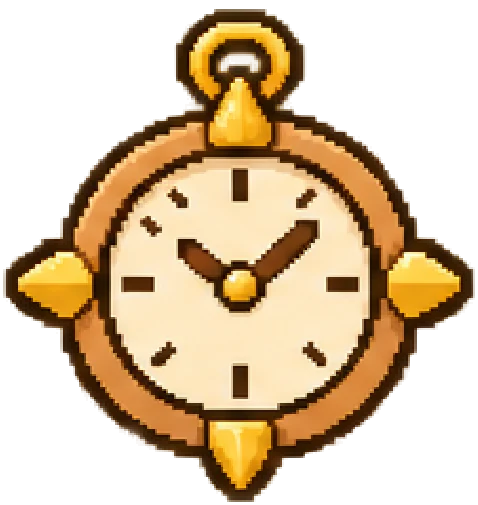
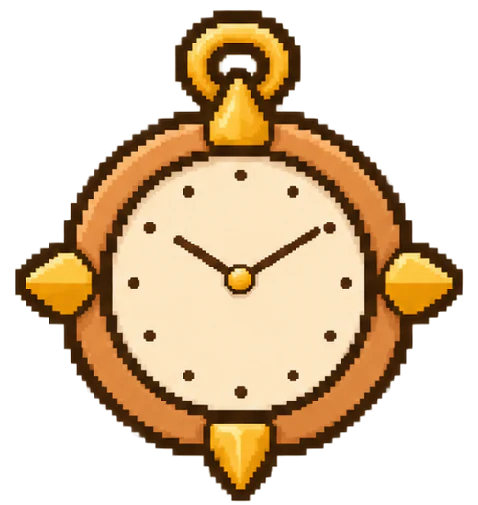
알은 광장 · 아지트만 도트 알 · 아지트 벽시계 4종을 숫자 없는 시계로 · 교실 벽의 빈 시계판에 시계판 얹기
- 알: 카드 · 자세히 보기 · 리더보드 · 독서 맵 · 축하 폭죽은 예전 알(egg.webp로 되돌림),
  책 광장(따라 걷는 알) · 아지트(방석 위의 알)는 도트 알(egg-pixel.webp · -160). 선생님 결정.
  PetFigure의 pixelEgg → petImageSrc(…, { pixelEgg }) 한 곳에서 고르고, 시험이 두 알이 다른 그림인지 봄.
  prepare-pet-art.mjs가 egg-pixel 열쇠도 받음.
- 아지트: 꾸미기 벽시계 4종을 숫자 없는 수정본(작은 점 12개 · 10시 10분 바늘)으로.
  import-pixel-art.mjs가 덧씌울 묶음을 몇 개든 받게 고침(넓은 러그 · 숫자 없는 벽시계) — 다시 돌려도 다른 그림은 그대로.
- 교실: 도트 배경의 칠판 위 벽시계가 빈 동그라미라, 숫자 없는 벽시계의 시계판(점 · 바늘 · 금빛 축만)을
  떠내 그 위에 얹음(classroom-clock.webp · CLASSROOM_CLOCK · PlazaFurniture · prepare-classroom-clock.mjs).
  배경은 고치지 않아 도트 묶음을 다시 넣어도 지워지지 않음. plazaArtFit 시험이 자리 · 지름 · 점 12개를 봄.
- 문서: READING_GROWTH.md · HIDEOUT.md · CLAUDE.md · 그림 README 둘.

Claude-Session: https://claude.ai/code/session_01C8MEnwKbSQD7jTHwr2vygZ

Changed region(s): [[0.0, 0.0, 0.9958, 1.0], [0.2929, 0.6535, 0.3222, 0.6832]]

diff --git a/lib/readingPet.js b/lib/readingPet.js
@@ -50,9 +50,11 @@ export const PET_HATCH_STAGE = 2;
 export const PET_HATCH_XP = getExpForReadingLevel(PET_HATCH_STAGE);
 
 // 그림 파일이 준비된 종 — public/reading-pets/{종}-{02~10}.webp(+ 작은 그림 -160.webp). 없는 종은
-// 자리표시를 그립니다(없는 파일을 학생마다 요청하지 않게). 알 단계의 '비밀 알'은 egg.webp 한 장을
-// 모두가 같이 씁니다(1단계는 종마다 그리지 않음). 그림은 scripts/prepare-pet-art.mjs로 다듬어 넣고,
-// 넣은 뒤 여기에 종(또는 "egg")을 더합니다 — 시험이 적힌 종의 파일이 다 있는지 봅니다.
+// 자리표시를 그립니다(없는 파일을 학생마다 요청하지 않게). 알 단계의 '비밀 알'은 종마다 그리지 않고
+// 모두가 같이 씁니다(1단계는 종마다 그리지 않음) — 카드 · 리더보드 · 독서 맵 · 축하 폭죽은 egg.webp(예전 알),
+// 책 광장 · 아지트는 도트 알 egg-pixel.webp(petImageSrc의 pixelEgg — 선생님 결정, 2026년 11월 도트 그림).
+// 그림은 scripts/prepare-pet-art.mjs로 다듬어 넣고, 넣은 뒤 여기에 종(또는 "egg")을 더합니다 — 시험이 적힌 종의
+// 파일이 다 있는지 봅니다("egg"는 두 알 모두).
 export const PET_ART_READY = Object.freeze(new Set(["egg", "owl", "hedgehog", "chick", "otter", "fennec", "redpanda", "rabbit", "bear", "cat", "puppy"]));
 
 const finite = (v) => (typeof v === "number" && Number.isFinite(v) ? v : null);
@@ -218,7 +220,6 @@ export function pickPetSpecies(index) {
   return PET_SPECIES[i].key;
 }
 
-/** 그림 주소 — 그림 파일이 아직 없으면 null(자리표시를 그림). 알 단계는 종과 상관없이 '비밀 알'. */
 /**
  * 큰 그림(640px)과 작은 그림(160px — 이름에 -160)을 함께 적은 srcset. 브라우저가 자리 크기(sizes)로
  * 고릅니다 — 순위표 · 독서 맵처럼 작게 여러 장 뜨는 자리는 작은 그림만 받습니다(한 장 4~10KB).
@@ -228,9 +229,13 @@ export function petImageSrcSet(src) {
   return `${src.slice(0, -".webp".length)}-160.webp 160w, ${src} 640w`;
 }
 
-export function petImageSrc(species, stage, ready = PET_ART_READY) {
+/**
+ * 그림 주소 — 그림 파일이 아직 없으면 null(자리표시를 그림). 알 단계는 종과 상관없이 '비밀 알'.
+ * pixelEgg — 책 광장 · 아지트처럼 배경 · 걷는 그림이 도트인 자리는 도트 알(egg-pixel.webp). 깨어난 펫은 상관없음.
+ */
+export function petImageSrc(species, stage, ready = PET_ART_READY, { pixelEgg = false } = {}) {
   const n = Math.floor(Number(stage) || 1);
-  if (!species || n <= 1) return ready.has("egg") ? "/reading-pets/egg.webp" : null;
+  if (!species || n <= 1) return ready.has("egg") ? `/reading-pets/${pixelEgg ? "egg-pixel" : "egg"}.webp` : null;
   if (!petSpecies(species) || !ready.has(species)) return null;
   return `/reading-pets/${species}-${String(Math.min(PET_STAGE_MAX, n)).padStart(2, "0")}.webp`;
 }

diff --git a/components/reading/PlazaClassroom.jsx b/components/reading/PlazaClassroom.jsx
@@ -6,6 +6,7 @@
 // 글자 · 단추의 크기는 화면 px 그대로입니다(맵을 줄여도 읽을 수 있게).
 //   · PlazaFurniture — **러그 서른 장과 책상·의자 서른 벌**. 교실 배경에는 책상이 없고(선생님이 주신 분리 그림),
 //     자리 좌표(lib/readingPlazaMap.js의 CLASSROOM_SEATS)대로 여기서 그립니다. 러그가 아래, 책상·의자가 위.
+//     칠판 위 벽시계의 시계판(점 12개 · 10시 10분 바늘 — 도트 배경에는 빈 동그라미)도 여기서 얹습니다(CLASSROOM_CLOCK).
 //   · 학생 — **내 러그**에 살구빛 테(그 러그가 내 자리의 범위 — 선생님 요청)와 책상 위의 '내 자리' 이름표.
 //     러그에 올라서면 테가 밝아지고 책상 위(이름표 자리)에 물음표가 뜹니다. A(또는 물음표를 누름) → [앉기(S) · 취소(C)].
 //     앉아 있으면 A(또는 내 자리를 누름) → [다시 서기(S) · 취소(C)] — 앉은 동안에는 물음표를 띄우지 않습니다(앉은 캐릭터의 머리를 가림).
@@ -16,7 +17,7 @@
 // 어디에 서 있는지 · 무엇을 고르는 중인지는 무대가 정해 넘깁니다(셈은 lib/readingClassroom.js).
 // =============================================================
 import { memo } from "react";
-import { CLASSROOM_BOARD, CLASSROOM_DESK, CLASSROOM_RUG, CLASSROOM_SEATS, PLAZA_H, PLAZA_W } from "@/lib/readingPlazaMap";
+import { CLASSROOM_BOARD, CLASSROOM_CLOCK, CLASSROOM_DESK, CLASSROOM_RUG, CLASSROOM_SEATS, PLAZA_H, PLAZA_W } from "@/lib/readingPlazaMap";
 
 const pct = (value, whole) => `${(value / whole * 100).toFixed(3)}%`;
 const at = (point) => ({ left: pct(point.x, PLAZA_W), top: pct(point.y, PLAZA_H) });
@@ -24,6 +25,9 @@ const at = (point) => ({ left: pct(point.x, PLAZA_W), top: pct(point.y, PLAZA_H)
 export const PlazaFurniture = memo(function PlazaFurniture() {
   return (
     <>
+      {/* 벽시계의 시계판 — 배경의 빈 시계판 위에(그림은 점 · 바늘 · 축만, 크림 바탕은 배경의 것이 비침) */}
+      <img className="plaza-clock" src={CLASSROOM_CLOCK.src} alt="" draggable={false}
+        style={{ left: pct(CLASSROOM_CLOCK.x - CLASSROOM_CLOCK.d / 2, PLAZA_W), top: pct(CLASSROOM_CLOCK.y - CLASSROOM_CLOCK.d / 2, PLAZA_H), width: pct(CLASSROOM_CLOCK.d, PLAZA_W), height: pct(CLASSROOM_CLOCK.d, PLAZA_H) }} />
       {CLASSROOM_SEATS.map((seat) => (
         <img key={`rug-${seat.index}`} className="plaza-rug" src={CLASSROOM_RUG.src} alt="" draggable={false}
           style={{ left: pct(seat.rug.x - CLASSROOM_RUG.w / 2, PLAZA_W), top: pct(seat.rug.y - CLASSROOM_RUG.h / 2, PLAZA_H), width: pct(CLASSROOM_RUG.w, PLAZA_W), height: pct(CLASSROOM_RUG.h, PLAZA_H) }} />

diff --git a/components/reading/PlazaActor.jsx b/components/reading/PlazaActor.jsx
@@ -9,7 +9,7 @@
 //
 // character — { style, number }(lib/readingCharacterCatalog.js의 characterOf)
 // pet       — null(없음) · { species, stage, hatched, ready }. 깨어난 펫은 걷는 그림(단계가 오를수록 크게),
-//             알은 종을 드러내지 않는 공통 알(PetFigure) — 알과 걷는 그림이 없는 펫은 걷는 동안 통통 뜁니다(CSS).
+//             알은 종을 드러내지 않는 공통 알 — 광장에서는 도트 알(PetFigure의 pixelEgg) · 알과 걷는 그림이 없는 펫은 걷는 동안 통통 뜁니다(CSS).
 // 걷는 그림(시트)을 못 받으면 캐릭터는 예전 그림, 펫은 단계 그림으로 섭니다.
 //
 // seat — 교실에서 자리에 앉아 있으면 그 자리(lib/readingPlazaMap.js의 CLASSROOM_SEATS 한 칸), 서 있으면 null.
@@ -82,7 +82,7 @@ const PlazaActor = forwardRef(function PlazaActor({ character, pet = null, name,
           <span className="plaza-avatar-shadow" style={{ width: petBody.body * 0.62, height: petBody.body * 0.2 }} />
           {petSheet
             ? <PlazaSprite ref={petSprite} src={petSheet} size={petBody.cell} style={{ left: -petBody.footX, top: -petBody.footY }} onMissing={() => setPetSpriteMissing(true)} />
-            : <span className="plaza-pet-figure" style={{ left: -petFigure / 2, top: -petFigure * 0.93 }}><PetFigure species={pet.species} stage={pet.stage} ready={pet.ready} size={petFigure} /></span>}
+            : <span className="plaza-pet-figure" style={{ left: -petFigure / 2, top: -petFigure * 0.93 }}><PetFigure species={pet.species} stage={pet.stage} ready={pet.ready} size={petFigure} pixelEgg /></span>}
         </div>
       )}
       <div ref={avatarRef} className={`plaza-avatar${me ? " is-me" : ""}${teacher ? " is-teacher" : ""}${reading ? " is-reading" : ""}${seat ? " is-seated" : ""}${checked ? " is-checked" : ""}`} aria-hidden="true"

diff --git a/components/reading/PetFigure.jsx b/components/reading/PetFigure.jsx
@@ -3,7 +3,8 @@
 // =============================================================
 // 독서 펫 그림 한 장(lib/readingPet.js)
 // -------------------------------------------------------------
-// 그림 파일(public/reading-pets/{종}-{단계}.webp · egg.webp)이 준비된 종은 그 그림을,
+// 그림 파일(public/reading-pets/{종}-{단계}.webp · egg.webp — 책 광장 · 아지트는 pixelEgg로 도트 알 egg-pixel.webp)이
+// 준비된 종은 그 그림을,
 // 아직 없으면 자리표시를 그립니다 — 알은 그린 알 한 개(종을 드러내지 않음), 깨어난 펫은
 // 옅은 동그라미 안의 동물 그림 문자(단계가 오를수록 커짐). 그림이 오면 PET_ART_READY에
 // 종을 더하는 것만으로 바뀝니다(없는 파일을 학생마다 요청하지 않게).
@@ -45,10 +46,11 @@ export function PetEgg({ ready = false, size = 64 }) {
 
 /**
  * species — 종 열쇠(알이면 null) · stage — 1~10 · ready — 곧 깨어날 알 · size — 한 변(px)
+ * pixelEgg — 알을 도트 알로(책 광장 · 아지트만 — 카드 · 리더보드 · 독서 맵은 예전 알, 선생님 결정)
  */
-export default function PetFigure({ species = null, stage = 1, ready = false, size = 64, className = "" }) {
+export default function PetFigure({ species = null, stage = 1, ready = false, size = 64, className = "", pixelEgg = false }) {
   const egg = !species || stage <= 1;
-  const src = petImageSrc(egg ? null : species, egg ? 1 : stage);
+  const src = petImageSrc(egg ? null : species, egg ? 1 : stage, undefined, { pixelEgg });
   const box = { width: size, height: size };
   if (src) {
     return (

diff --git a/components/reading/plaza.css b/components/reading/plaza.css
@@ -260,9 +260,10 @@
 @keyframes plaza-warp { from { opacity: .96; } to { opacity: 0; } }
 
 /* 러그와 책상·의자 — 교실 배경에는 없고 자리 좌표대로 따로 놓습니다(PlazaFurniture). 러그가 아래, 책상·의자가 위,
-   캐릭터는 그 위(z 10+). 앉은 캐릭터 위에는 '의자만'의 그림을 한 번 더 그립니다(.plaza-chair). 누름은 통과합니다. */
-.plaza-rug, .plaza-desk-art { position: absolute; display: block; max-width: none; pointer-events: none; user-select: none; }
-.plaza-rug { z-index: 1; }
+   캐릭터는 그 위(z 10+). 앉은 캐릭터 위에는 '의자만'의 그림을 한 번 더 그립니다(.plaza-chair). 누름은 통과합니다.
+   벽시계의 시계판(.plaza-clock)도 배경의 빈 시계판 위에 따로 얹습니다 — 칠판 위 벽이라 캐릭터와 겹치지 않습니다. */
+.plaza-rug, .plaza-desk-art, .plaza-clock { position: absolute; display: block; max-width: none; pointer-events: none; user-select: none; }
+.plaza-rug, .plaza-clock { z-index: 1; }
 .plaza-desk-art { z-index: 4; }
 /* 내 러그 — 러그(보이는 타원)를 두른 살구빛 테. 러그가 곧 내 자리의 범위라(선생님 요청) 어디에 올라서면 되는지 보입니다.
    책상보다 아래 층이라 책상 · 의자에 가린 가운데는 안 보이고 양옆의 귀가 드러납니다. 올라서면 밝아지고, 앉으면 옅어집니다. */

diff --git a/lib/readingPlazaMap.js b/lib/readingPlazaMap.js
@@ -183,6 +183,11 @@ export const CLASSROOM_SIT_HIDE = 30;
 // 칠판 — 선생님이 그 앞(칠판 아래 벽과 첫 줄 책상 사이 · 복도의 맨 위)에 서면 출석을 시작하고 끝냅니다.
 // markY는 칠판의 물음표가 뜨는 높이 — 그 앞에 선 선생님의 이름표(머리 위)보다 위라 서로 가리지 않습니다.
 export const CLASSROOM_BOARD = Object.freeze({ rect: Object.freeze([490, 84, 1182, 254]), x0: 440, x1: 1232, y: 330, standY: 292, markY: 160 });
+// 벽시계 — 칠판 위 벽시계는 도트 배경에 빈 크림색 동그라미로 그려져 있어, 그 시계판(가운데 x · y, 지름 d — 원본 px)에
+// 선생님이 주신 숫자 없는 벽시계의 시계판(점 12개 · 10시 10분의 두 바늘 · 금빛 축)을 얹습니다(PlazaClassroom.jsx의 PlazaFurniture).
+// 그림은 scripts/prepare-classroom-clock.mjs가 아지트 시계 그림에서 떠냅니다 — 바늘은 움직이지 않습니다(진짜 시각이 아님).
+// 배경을 바꾸면 이 숫자를 다시 재세요(시험 tests/unit/plazaArtFit.test.mjs가 그림과 견줌).
+export const CLASSROOM_CLOCK = Object.freeze({ src: "/reading-plaza/classroom-clock.webp", x: 835, y: 44, d: 59 });
 
 export const CLASSROOM_ROOM = defineRoom({
   id: "classroom", name: "교실", art: "/reading-plaza/classroom.webp",

diff --git a/components/reading/ReadingHideout.jsx b/components/reading/ReadingHideout.jsx
@@ -358,7 +358,7 @@ function RestingPet({ pet, bed }) {
   if (!placement) return null;
   return <div className={`hideout-pet${egg ? " hideout-pet--egg" : " hideout-pet--resting"}`} data-pet-pose={egg ? "egg" : "rest"} data-resting-pet={egg ? undefined : rest?.species}
     style={{ ...place(placement.x, placement.y, placement.width), aspectRatio: "1", zIndex: 102 + bed.y }} role="img" aria-label={egg ? "창가 방석에서 쉬는 신비한 알" : "창가 방석에 앉아 쉬는 펫"}>
-    {egg ? <PetFigure species={null} stage={1} ready={false} size={placement.width} /> : rest && missing !== rest.src ? <img src={rest.src} alt="" width={rest.cell || 96} height={rest.cell || 96} draggable={false} onError={() => setMissing(rest.src)} />
+    {egg ? <PetFigure species={null} stage={1} ready={false} size={placement.width} pixelEgg /> : rest && missing !== rest.src ? <img src={rest.src} alt="" width={rest.cell || 96} height={rest.cell || 96} draggable={false} onError={() => setMissing(rest.src)} />
       : <PetFigure species={pet.species} stage={pet.stage} ready={false} size={placement.width} />}
   </div>;
 }

diff --git a/lib/readingPlazaSprites.js b/lib/readingPlazaSprites.js
@@ -28,7 +28,7 @@ export const PLAZA_FACINGS = Object.freeze(["down", "right", "up", "left"]);
 // 펫은 단계에 따라 크기가 다릅니다(선생님 결정 — 묶음의 펫 그림은 다 자란 모습 한 가지라, 크기로 성장을 보임).
 export const PLAZA_PET_BODY = 46;
 export const PLAZA_PET_SCALE_MIN = 0.62;
-// 깨어나기 전의 알 — 종을 드러내지 않는 공통 알(components/reading/PetFigure.jsx)을 그대로 씁니다.
+// 깨어나기 전의 알 — 종을 드러내지 않는 공통 알을 도트 알로 그립니다(components/reading/PetFigure.jsx의 pixelEgg · egg-pixel.webp).
 export const PLAZA_EGG_SIZE = 36;
 
 // ── 걸음과 그림 ──────────────────────────────────────────────

diff --git a/CLAUDE.md b/CLAUDE.md
@@ -14,7 +14,7 @@
 
 **책 광장**(책나눔의 셋째 탭 — 광장을 켠 반에서 '우리 반 랭킹' 자리에 섬 · 선생님 요청 · 한때 이름이 '독서 광장' — 옛 이름을 화면 · 문서에 다시 쓰지 마세요)은 `READING_GROWTH.md`의 '책 광장' 절이 기준입니다. 광장 그림 위를 내 캐릭터가(펫을 데리고) 걸어 가판대(지금 읽는 책 — 독서 발자국)와 책꽂이(완독한 책 — 한 권의 책)에서 반 친구의 글을 읽고 댓글을 남깁니다. 셈은 `lib/readingPlaza.js`, 화면은 `components/reading/ReadingPlaza.jsx` · `PlazaPanel.jsx` · `PlazaSprite.jsx`. **반 친구에게 보이는 것은 서버가 맞춰 두는 공유 사본뿐입니다**(`classes/{c}/plazaShelves` · `plazaBooks` · `plazaComments` — 서버만 쓰고 규칙은 읽기만 엶 · 서재 정본을 반 친구가 읽게 열지 마세요). **선생님이 책 광장을 켠 반에서는 그 반에서 쓴 독서 발자국 · 한 권의 책이 모두 반 친구에게 보이고(켜기 전에 쓴 글도), 끈 반에서는 본인과 선생님만 봅니다 — 학생이 고르는 칸은 없습니다**(선생님 결정 — "학생이 선택할 수 있는 옵션을 제거하고 모두 공개"). 한때 발자국은 '광장을 켠 뒤에 쓴 것만'(도장 `log.plaza`) · 책마다 '발자국 보이기'(`plazaHidden`) · 한 권의 책은 학생이 '광장 책꽂이에 꽂기'(`shelved`)를 누른 것만 보였습니다 — 그 스위치 · 체크 칸 · 도장을 **되살리지 마세요**(서재에 남은 옛 표시는 아무도 읽지 않음). 완독한 책은 '한 권의 책'을 쓰기 전에도 광장 책꽂이에 서고, 보관함으로 옮긴 책 · 선생님이 광장에서 내린 책 · 다른 반에서 쓴 글은 안 보입니다. 켜기 전에 쓴 글은 서버가 **반 전체를 한 번 통째로 맞춰** 내겁니다(`plazaSyncClass` — 책방 화면이 반 문서의 `plazaSynced`를 보고 부탁 · 판정 `lib/reading.js`의 `plazaNeedsSync` · 기준 번호 `PLAZA_SHARE_RULE`, 무엇이 보이나를 바꾸면 올림). 그 표시가 있는 반은 광장을 꺼 둔 동안에도 사본을 맞춰 둡니다 — **끈 동안 학생이 못 읽게 막는 것은 규칙(`plazaOpenHere`)이니 그 판정을 풀지 마세요.** 쓰는 자리(책 상세 창 · 발자국 창 · 한 권의 책 창)의 안내 한 줄과 관리자 설정의 스위치 설명 · 켤 때의 알림이 '반 친구들이 함께 읽는다 · 켜기 전에 쓴 글도'를 말합니다 — 고르는 칸이 없으니 그 안내를 빼지 마세요. 관리자 설정의 '책 광장'은 **켤 때만 한 번 되묻습니다**(지금까지 쓴 글이 한꺼번에 보이게 되므로 · 끌 때는 곧바로 — `AdminSettingsPanel`의 `ask`). **함께 있는 친구들**(선생님 요청 — 광장 탭을 연 반 친구와 선생님의 캐릭터 · 펫이 서로의 화면에서 함께 걷고, 이름표 · '읽는 중' · '지금 n명'이 섬)은 `READING_GROWTH.md`의 '함께 있는 친구들' 절이 기준입니다. 자료는 Firestore가 아니라 **Realtime Database**입니다(`plaza/{반}/who` — 입장권 + 이름표 · **서버만 씀**, `plaza/{반}/pos` — 내 자리 · 본인만 씀, 규칙 `database.rules.json`). 주소(`NEXT_PUBLIC_FIREBASE_DATABASE_URL`)를 넣은 배포에서만 켜지고 없으면 내 캐릭터만 보입니다(관리자 설정에 스위치를 따로 두지 않음 — 책 광장 스위치를 따름). 자리를 Firestore로 옮기거나, 이름표 · 캐릭터 · 펫을 본인이 적게 하거나, 알 단계의 종을 입장권에 싣지 마세요. **걸음마다 올리지 않습니다** — 누른 곳으로 걸을 때 길을 한 번 · 방향키는 0.3초에 한 번 · 멈출 때 한 번(내려받는 양이 보내는 사람 × 듣는 사람으로 늘어남 — 간격을 줄이지 마세요). 연결은 광장 탭을 연 동안만 잇고, 가려진 탭(45초)과 가만히 둔 학생 화면(10분)은 놓습니다(무료 요금제의 동시 연결 100개 — 선생님 화면은 가만히 두어도 놓지 않음). Realtime Database SDK는 실제로 이을 때만 내려받습니다(`lib/data/plazaLive.js`의 `import()` — 다른 파일에서 `firebase/database`를 곧바로 import하지 마세요). 서버는 Realtime Database를 **REST로만** 읽고 씁니다(`lib/server/plazaLiveStore.js` — `firebase-admin/database`의 연결은 서버 인스턴스마다 하나씩 열려 학생 몫의 동시 연결을 먹습니다. 되돌리지 마세요). **이 규칙은 `npm run deploy`가 저절로 올리지 않습니다**(`-- --database-only` 또는 콘솔의 Realtime Database → 규칙). 학생을 반에서 빼거나 사용 중지 · 탈퇴시키면 서버가 그 학생의 입장권 · 자리를 걷고(`resetReadingRankings(…, uid)`), 반을 완전히 지우면 그 반의 실시간 자료를 걷습니다(`clearPlazaLive`). 셈 `lib/readingPlazaLive.js` · 잇고 놓기 `lib/plazaLiveSession.js` · 통로 `lib/plazaLiveChannel.js` · 캐릭터 한 명의 조각 `components/reading/PlazaActor.jsx` · 데모(가상 친구 · 같은 브라우저의 다른 탭) `lib/data/plazaLiveDemo.js`. **맵이 화면을 가득 채웁니다 — 상단바만 남기고 그 아래 전부**(선생님 요청). 광장 탭에서는 상단바 바로 아래부터 화면 바닥 · 좌우 끝까지가 무대이고(여백 · 둥근 모서리 없음), 그림은 그 무대를 빈틈없이 덮게 키워 넘치는 쪽을 시점이 캐릭터를 따라가며 보여 줍니다(`plazaView` · `plazaCamera`). 이 탭에서만 체험반 안내 띠 · 책방 머리말(문구 · 제목 · 반 고르개 · 단추) · 책나눔의 머리띠와 탭 줄 · [교사] 왼쪽 학생 명단과 오른쪽 '멋진 순간'을 **가립니다**(떼어 내지 않음 — `plaza.css`의 '광장 탭', `:has(.reading-hub--plaza)`). 제목 '책 광장' · **'나가기'** · 가판대 · 책꽂이 단추는 줄을 따로 차지하지 않고 맵 위에 얹습니다(`.plaza-hud`). 탭 줄이 없으므로 **나가는 길은 '책 광장' 팻말 옆의 '나가기'**(같은 모양 · 같은 크기 — 책나눔의 첫 탭 '책꽂이'로, `ReadingHub`의 `leavePlaza`)입니다. **선생님이 들어가는 입구는 책나눔 학생 명단 위의 '책 광장 들어가기'**입니다(`TeacherReadingView` · `ReadingHub.jsx`의 `TeacherPlaza` — 책 광장은 반 전체의 자리라 고른 학생과 무관하게, **학생이 한 명도 없는 반에서도** 들어감 · 나가면 명단으로). 한때 길이 고른 학생 화면('○○의 독서 여정')의 셋째 탭 하나뿐이라 학생이 없는 반에서는 탭 줄 자체가 없어 들어갈 길이 없었고(주소 `?tab=plaza`도 안 열림), 학생이 있는 반에서도 입구로 보이지 않았습니다(선생님 신고) — 그 탭은 그대로 두었지만 **입구를 다시 그 탭 하나로 줄이지 마세요**(`READING_GROWTH.md`의 '교사의 책나눔'). 광장의 코드를 내려받는 동안에도 그 팻말 둘이 같은 자리에 섭니다(`ReadingHub`의 `PlazaLoading` — 안내 한 줄만 띄우던 옛 모습으로 되돌리면 느린 와이파이에서 나갈 길이 없습니다 · 높이는 진짜 무대와 같은 셈 `lib/plazaStageRoom.js`). **무대에는 초점 테를 두지 않습니다**(선생님 결정 — 마당을 누른 뒤 방향키로 걸으면 화면 가장자리에 파란 테가 떠서 걷음. 무대 칸 위에 얹는 테 · 바깥 테 · 안쪽 `outline` 어느 것도 되살리지 마세요). 머리말 · 탭 줄을 남기고 그 아래에만 맵을 깔거나, 제목 줄 · 안내 줄을 따로 세우거나, 그림 전체가 한 화면에 들어오게 줄이는 옛 배치로 되돌리지 마세요. 배경 그림(`public/reading-plaza/plaza.webp`)을 바꾸면 `lib/readingPlazaMap.js`의 걷는 길 좌표도 함께 다시 재세요. **캐릭터와 펫은 걷는 그림(도트 시트)으로 걷습니다** — 선생님이 주신 묶음(`public/reading-plaza/sprites/` — 캐릭터 30 · 펫 10, 한 장 288px · 3×3칸 · 발점 (48, 88) · 왼쪽은 오른쪽을 뒤집음), 셈은 `lib/readingPlazaSprites.js`(방향 `plazaFacing` · 걸은 **거리**로 넘기는 그림 `plazaWalkFrame` · 펫이 지나온 길을 따라오는 자리), 그리기는 `components/reading/PlazaSprite.jsx`(캔버스 — 정수 배로 키운 뒤 줄여 그려 어떤 배율에서도 또렷하게. `<img>` · `image-rendering`으로 되돌리지 마세요). **펫은 단계가 오를수록 크게 그립니다**(선생님 결정 — 묶음의 펫은 다 자란 모습 한 가지, 2단계 62% → 10단계 100% · 알은 공통 알 그대로). 아래쪽으로 걸을 때 펫이 몸에 가리지 않게 옆으로 비켜 따라오는 것(`plazaPetPeek`)과 걷는 빠르기 260 · 한 장 32px의 짝(초당 8장쯤)은 실측으로 맞춘 값입니다. 캐릭터 · 펫을 새로 더하면 걷는 그림 시트도 함께 넣으세요(시험이 봄). **걷는 모습은 기기의 '애니메이션(동작) 줄이기' 설정과 상관없이 늘 보입니다**(선생님 신고 — 한때 그 설정이 켜진 기기에서는 걷는 그림을 넘기지 않아 캐릭터가 발을 안 움직이고 미끄러져 다녔습니다 · 학교 PC에 흔한 설정 · 셈 `plazaShownFrame`). 그 설정은 시점이 따라붙는 움직임과 꾸밈 효과(깜빡임 · 포털의 빛 …)에만 듣습니다 — 걷는 그림 · 알의 통통 뛰기에 다시 걸지 마세요(시험이 봄). 무대 · 창 · 걷는 길 · 걷는 그림의 코드는 광장 탭을 열 때만 내려받습니다(`ReadingHub`의 `dynamic`) — 책방 첫 화면에 곧바로 import하지 마세요.
 
-**교실**(책 광장의 둘째 방 — 관리자 설정의 '교실'을 켠 반 · 선생님 요청)은 `READING_GROWTH.md`의 '교실' 절이 기준입니다. 책 광장 왼쪽 아래의 포털로 교실에 들어가고(교실 오른쪽 아래 포털로 돌아옴), 책 광장 탭을 열면 **마지막에 있던 방**에서 시작합니다. 셈은 `lib/readingClassroom.js`, 방 · 책상과 러그 · 칠판 · 포털의 좌표는 `lib/readingPlazaMap.js`(방 정의 `plazaRoomOf` — 걷는 길의 셈은 모두 마지막 인자로 방을 받음), 러그와 책상 · 그림 위에 얹는 것은 `components/reading/PlazaClassroom.jsx`, 책방 페이지가 넘기는 묶음은 `app/books/page.js`의 `classroomProps`. **선생님과 정한 것 — 되돌리려면 먼저 여쭙니다**: ① 책상의 주인은 **'자리 배정하기'의 자리표**(저장된 `seatLayouts/default` — 광장에서 따로 고르지 않음 · 자리표에 없는 학생은 책상이 없고 선생님 화면에 '자리표에 없는 학생 n명'이 섬) ② **걷는 키는 방향키뿐**(W A S D로 걷기를 되살리지 마세요 — **A는 행동 · S는 첫 단추 · C는 둘째 단추**, 한글 입력 상태의 ㅁ · ㄴ · ㅊ도 들음 `plazaLetterKey`). **내 책상의 러그에 올라서면** 책상 위에 물음표 → A → `앉기(S) · 취소(C)`, 앉은 채 A → `다시 서기(S) · 취소(C)` ③ 선생님은 **칠판 앞에서 A → `출석시작(S) · 출석종료(C)`**이고 **출석시작을 누르는 그 순간 제자리에 앉아 있던 학생만** 출석입니다(그때 접속하지 않았거나 앉아 있지 않으면 아님 · 다시 누르면 그때 앉아 있는 학생이 더해짐) ④ 스위치는 책 광장과 따로 ⑤ 마지막 방은 이 기기에 기억 ⑥ **책상은 짝짓지 않고 한 줄씩**(6칸 × 5줄)이고 책상마다 깔린 **동그란 러그가 그 자리의 범위**(러그 위에 서야 물음표 — 판정 `classroomNearSeat` · 복도 한가운데는 맨바닥. 두 칸씩 짝지은 옛 배치 · '책상 옆' 네모 범위를 되살리지 마세요) ⑦ **칠판에서 출석을 확인한 날에는 교실을 나간 학생에게 출석이 보이지 않습니다** — 그날은 제자리에 앉아야만 출석이라 책방 머리말의 '출석하기' 단추(이미 출석한 학생의 '✓ 출석 완료'도)를 그리지 않습니다(판정 `lib/reading.js`의 `classroomRollToday` — 교실을 켠 반 · `classroomCallAt`의 날짜가 오늘 · 그날 하루 내내. '출석 관리' 창으로만 받은 날과 교실을 끈 반은 지금처럼 단추. 한때 그 단추가 그대로 떠서 앉지 않은 학생이 교실을 나가 단추로 출석했습니다 — 되살리지 마세요. 가리는 것은 화면이고 규칙은 그대로 · 이 판정은 책방 첫 화면이 쓰므로 광장 지도를 끌어오는 `lib/readingClassroom.js`에 두지 않습니다) ⑧ **선생님의 맵 위 왼쪽 팻말은 둘 — 광장에서는 `모두 교실로 · 나가기`, 교실에서는 `모두 광장으로 · 나가기`**이고 앞의 단추(`.plaza-gather`)가 **반의 모든 화면 위쪽에 알림과 10초 카운트다운을 띄운 뒤, 학생 모두(다른 화면에 있던 학생도 책 광장 탭으로)와 선생님을 그 방으로 옮깁니다**(선생님 요청 — "이동 버튼을 클릭하면 화면 상단에 이동을 알리는 메시지와 10초 카운트 다운 … 학생들이 작업을 마무리". 학생과 교실을 끈 반의 선생님은 지금처럼 방 이름 팻말 · '나가기'는 누른 사람만 나감. 반 문서에 `classroomMoveTo` · `classroomMoveAt` · `classroomMoveWait`(셀 시간 10초)을 한 번의 쓰기로 적고(`moveClassroomAll` · 취소는 `cancelClassroomMove`) 화면들이 그 값을 보고 스스로 세고 스스로 옮김 — 출석 확인과 같은 길이라 **규칙 · Realtime Database를 건드리지 않습니다**. 알림 띠는 상단바가 답니다(`components/reading/ClassMoveBanner.jsx` — 책방 · 책나눔 · 리더보드 · 분석 리포트 어디서나 · 선생님의 띠에는 '취소'). 셈 `lib/classroomMove.js` · 반마다 하나인 상태와 타이머 `lib/classroomMoveStore.js`(상단바 · 책방 페이지가 반 문서를 먹임 — 저마다 세지 마세요) · 무대에는 **다 센 뒤에 내놓인 신호만** 넘깁니다. **곧바로 옮기던 옛 모습 · '책 광장 탭을 연 학생만 옮기기'로 되돌리지 마세요**(한때 그랬습니다 — 다른 화면의 학생은 쓰던 글이 날아갈까 봐 두었는데, 10초를 주어 마무리하게 하고 모두 옮기기로 정함). 다 세면 책나눔의 다른 탭은 광장 탭으로 넘어가되 **쓰던 입력 창(책 등록 · 독서 발자국 · 한 권의 책)은 닫지 않고**, 그 밖의 화면은 `/books?area=reading&tab=plaza`로 보냅니다. 자동 저장하는 활동 화면은 **떠나는 순간 못 보낸 글을 곧바로 저장합니다**(`lib/useSaveOnLeave.js` — 자동 저장하는 화면을 새로 만들면 함께 다세요. '보내기 · 붙이기'를 눌러야 저장되는 창의 글은 10초 안에 눌러야 남음). **보는 동안 온 새 신호는 기기 시계를 보지 않고 따릅니다**('지금까지 본 것보다 큰가'로 가림 · 보낸 때는 늘 앞 신호보다 크게 적음 — 시계 창을 되살리지 마세요: 시계가 틀린 선생님 기기에서 누르면 학생이 아무도 안 움직입니다. 10초도 화면마다 신호가 닿은 때부터 제 시계로 셈). **언제 보낸 것인지 알 수 없는 신호는 세지 않습니다** — 화면을 열고 처음 본 값 · 잠들었다 깬 기기에 밀려 온 값 · 한참 안 보다 다시 본 첫 값(어제 누른 신호가 오늘 "선생님이 부르고 있어요"로 뜨지 않게 — 그런 신호는 책 광장 탭을 열 때 한 시간 안 · 이 기기가 아직 안 따른 것만 따름: 늦게 들어온 학생). 설 자리는 `classroomMoveSpot` — 선생님은 칠판 앞 · 학생은 제 러그의 귀 · 나머지는 흩어 섬. 이미 그 방이면 그대로(앉은 채). 광장의 쓰던 댓글이 있는 창은 닫지 않습니다. 세는 동안 단추는 쉬고(`.is-waiting`), 두 번 눌러도 한 번만(`GATHER_GAP_MS` — 시간으로 막음). 기준은 `READING_GROWTH.md`의 '모두 이동'). **출석 기록은 앉아 있던 학생의 화면이 스스로 남깁니다** — 선생님의 출석시작(`callClassroomRoll`)이 반 문서에 출석 열기 두 칸과 '확인한 때'(`classroomCallAt`)를 **한 번의 쓰기로** 적고, 학생 화면이 그 값이 바뀌는 것을 본 순간 앉아 있으면 '출석하기' 단추와 같은 기록(`markStudyAttendance`)을 남깁니다(`classroomRollCall` — 화면을 열고 처음 본 값은 기준일 뿐). **출석 · 자리표의 화면과 규칙은 건드리지 않습니다**(교실은 그 자료를 읽고 같은 기록을 남기기만 함 — 선생님이 대신 쓰는 길 · 새 출석 컬렉션으로 바꾸지 마세요. 하나만 예외 — ⑦의 '출석하기' 단추를 그날 그리지 않는 것, 선생님 결정). 세 배경 그림(`plaza.webp` · `plaza-door.webp` · `classroom.webp`)은 **같은 크기**(1672×941)여야 합니다. **책상 · 의자 · 러그 · 포털은 배경에 그려져 있지 않습니다**(선생님이 주신 분리 그림 — `rug.webp` · `desk-chair.webp` · 의자만 남긴 `chair-front.webp` · `portal.webp`) — 화면이 자리 좌표대로 따로 그리고(`PlazaClassroom.jsx`의 `PlazaFurniture` · 포털은 무대), 겹치는 차례는 바닥 → 러그 → 책상·의자 → 캐릭터 → 앉은 캐릭터의 의자입니다. 배경에 다시 그려 넣지 마세요. **그림 · 배치를 바꾸면 러그의 가운데(`DESK_X` · `RUG_Y`) · 책상 줄의 못 가는 띠 · 칠판 · 포털 · 바닥의 좌표를 함께 다시 재세요**(책상 30개의 차례 = 자리표의 30자리). **광장 · 교실 · 아지트 · 펫 그림은 도트 그림(1번 스타일 · 2026년 11월)입니다** — 묶음의 PNG 원본을 `scripts/import-pixel-art.mjs`(배경 · 소품 — 같은 이름 · 같은 크기가 아니면 멈춤) · `scripts/prepare-pet-art.mjs`(펫)로 굽고, 그림에 맞춰 교실 줄을 30px 내렸으며 러그 · 의자 · 포털의 숫자를 다시 쟀습니다 — **`tests/unit/plazaArtFit.test.mjs`가 그 숫자를 그림과 직접 견줍니다.** **포털의 도는 빛 · 누르는 범위는 새 도트 포털의 크기입니다**(선생님 요청 — 광장 · 교실의 포털과 아지트의 '교실로' 포털 모두. 예전 크기로 되돌리면 도는 빛이 금테를 덮고 포털 옆 바닥을 눌러도 포털로 걸어감 · `READING_GROWTH.md`의 '교실'). 앉은 주인을 기다리는 펫은 **펫이 있는 쪽 러그 귀**에 섭니다(`classroomSeatSide` — 곧게만 걸어 책상 줄을 못 건넘). **칠판의 고르는 단추 상자는 선생님 옆(칠판 위)**에 뜹니다 — 머리 위에는 자리가 모자라 상자가 화면 밖으로 잘렸습니다(되돌리지 마세요 · 좁은 무대에서는 발 아래). 포털의 이름표는 방을 막 건너와 그 위에 서 있는 동안 걷습니다(얼굴을 가림). 함께 보기(Realtime Database)의 자리에는 `z`(교실에 있음) · `s`(앉은 책상 번호)가 실리고 무대는 같은 방의 친구만 세우며, 앉았다는 친구는 그 책상이 자리표에서 그 친구의 것일 때만 앉혀 그립니다 — **`database.rules.json`을 다시 게시한 뒤에 교실을 켜야** 교실의 친구가 서로 보입니다(앉기 · 출석은 Firestore만 써서 그 전에도 됨). 앉아 있는 학생은 가만히 있어도 한 시간까지 연결을 놓지 않습니다(`PLAZA_LIVE_SEATED_IDLE_MS`).
+**교실**(책 광장의 둘째 방 — 관리자 설정의 '교실'을 켠 반 · 선생님 요청)은 `READING_GROWTH.md`의 '교실' 절이 기준입니다. 책 광장 왼쪽 아래의 포털로 교실에 들어가고(교실 오른쪽 아래 포털로 돌아옴), 책 광장 탭을 열면 **마지막에 있던 방**에서 시작합니다. 셈은 `lib/readingClassroom.js`, 방 · 책상과 러그 · 칠판 · 포털의 좌표는 `lib/readingPlazaMap.js`(방 정의 `plazaRoomOf` — 걷는 길의 셈은 모두 마지막 인자로 방을 받음), 러그와 책상 · 그림 위에 얹는 것은 `components/reading/PlazaClassroom.jsx`, 책방 페이지가 넘기는 묶음은 `app/books/page.js`의 `classroomProps`. **선생님과 정한 것 — 되돌리려면 먼저 여쭙니다**: ① 책상의 주인은 **'자리 배정하기'의 자리표**(저장된 `seatLayouts/default` — 광장에서 따로 고르지 않음 · 자리표에 없는 학생은 책상이 없고 선생님 화면에 '자리표에 없는 학생 n명'이 섬) ② **걷는 키는 방향키뿐**(W A S D로 걷기를 되살리지 마세요 — **A는 행동 · S는 첫 단추 · C는 둘째 단추**, 한글 입력 상태의 ㅁ · ㄴ · ㅊ도 들음 `plazaLetterKey`). **내 책상의 러그에 올라서면** 책상 위에 물음표 → A → `앉기(S) · 취소(C)`, 앉은 채 A → `다시 서기(S) · 취소(C)` ③ 선생님은 **칠판 앞에서 A → `출석시작(S) · 출석종료(C)`**이고 **출석시작을 누르는 그 순간 제자리에 앉아 있던 학생만** 출석입니다(그때 접속하지 않았거나 앉아 있지 않으면 아님 · 다시 누르면 그때 앉아 있는 학생이 더해짐) ④ 스위치는 책 광장과 따로 ⑤ 마지막 방은 이 기기에 기억 ⑥ **책상은 짝짓지 않고 한 줄씩**(6칸 × 5줄)이고 책상마다 깔린 **동그란 러그가 그 자리의 범위**(러그 위에 서야 물음표 — 판정 `classroomNearSeat` · 복도 한가운데는 맨바닥. 두 칸씩 짝지은 옛 배치 · '책상 옆' 네모 범위를 되살리지 마세요) ⑦ **칠판에서 출석을 확인한 날에는 교실을 나간 학생에게 출석이 보이지 않습니다** — 그날은 제자리에 앉아야만 출석이라 책방 머리말의 '출석하기' 단추(이미 출석한 학생의 '✓ 출석 완료'도)를 그리지 않습니다(판정 `lib/reading.js`의 `classroomRollToday` — 교실을 켠 반 · `classroomCallAt`의 날짜가 오늘 · 그날 하루 내내. '출석 관리' 창으로만 받은 날과 교실을 끈 반은 지금처럼 단추. 한때 그 단추가 그대로 떠서 앉지 않은 학생이 교실을 나가 단추로 출석했습니다 — 되살리지 마세요. 가리는 것은 화면이고 규칙은 그대로 · 이 판정은 책방 첫 화면이 쓰므로 광장 지도를 끌어오는 `lib/readingClassroom.js`에 두지 않습니다) ⑧ **선생님의 맵 위 왼쪽 팻말은 둘 — 광장에서는 `모두 교실로 · 나가기`, 교실에서는 `모두 광장으로 · 나가기`**이고 앞의 단추(`.plaza-gather`)가 **반의 모든 화면 위쪽에 알림과 10초 카운트다운을 띄운 뒤, 학생 모두(다른 화면에 있던 학생도 책 광장 탭으로)와 선생님을 그 방으로 옮깁니다**(선생님 요청 — "이동 버튼을 클릭하면 화면 상단에 이동을 알리는 메시지와 10초 카운트 다운 … 학생들이 작업을 마무리". 학생과 교실을 끈 반의 선생님은 지금처럼 방 이름 팻말 · '나가기'는 누른 사람만 나감. 반 문서에 `classroomMoveTo` · `classroomMoveAt` · `classroomMoveWait`(셀 시간 10초)을 한 번의 쓰기로 적고(`moveClassroomAll` · 취소는 `cancelClassroomMove`) 화면들이 그 값을 보고 스스로 세고 스스로 옮김 — 출석 확인과 같은 길이라 **규칙 · Realtime Database를 건드리지 않습니다**. 알림 띠는 상단바가 답니다(`components/reading/ClassMoveBanner.jsx` — 책방 · 책나눔 · 리더보드 · 분석 리포트 어디서나 · 선생님의 띠에는 '취소'). 셈 `lib/classroomMove.js` · 반마다 하나인 상태와 타이머 `lib/classroomMoveStore.js`(상단바 · 책방 페이지가 반 문서를 먹임 — 저마다 세지 마세요) · 무대에는 **다 센 뒤에 내놓인 신호만** 넘깁니다. **곧바로 옮기던 옛 모습 · '책 광장 탭을 연 학생만 옮기기'로 되돌리지 마세요**(한때 그랬습니다 — 다른 화면의 학생은 쓰던 글이 날아갈까 봐 두었는데, 10초를 주어 마무리하게 하고 모두 옮기기로 정함). 다 세면 책나눔의 다른 탭은 광장 탭으로 넘어가되 **쓰던 입력 창(책 등록 · 독서 발자국 · 한 권의 책)은 닫지 않고**, 그 밖의 화면은 `/books?area=reading&tab=plaza`로 보냅니다. 자동 저장하는 활동 화면은 **떠나는 순간 못 보낸 글을 곧바로 저장합니다**(`lib/useSaveOnLeave.js` — 자동 저장하는 화면을 새로 만들면 함께 다세요. '보내기 · 붙이기'를 눌러야 저장되는 창의 글은 10초 안에 눌러야 남음). **보는 동안 온 새 신호는 기기 시계를 보지 않고 따릅니다**('지금까지 본 것보다 큰가'로 가림 · 보낸 때는 늘 앞 신호보다 크게 적음 — 시계 창을 되살리지 마세요: 시계가 틀린 선생님 기기에서 누르면 학생이 아무도 안 움직입니다. 10초도 화면마다 신호가 닿은 때부터 제 시계로 셈). **언제 보낸 것인지 알 수 없는 신호는 세지 않습니다** — 화면을 열고 처음 본 값 · 잠들었다 깬 기기에 밀려 온 값 · 한참 안 보다 다시 본 첫 값(어제 누른 신호가 오늘 "선생님이 부르고 있어요"로 뜨지 않게 — 그런 신호는 책 광장 탭을 열 때 한 시간 안 · 이 기기가 아직 안 따른 것만 따름: 늦게 들어온 학생). 설 자리는 `classroomMoveSpot` — 선생님은 칠판 앞 · 학생은 제 러그의 귀 · 나머지는 흩어 섬. 이미 그 방이면 그대로(앉은 채). 광장의 쓰던 댓글이 있는 창은 닫지 않습니다. 세는 동안 단추는 쉬고(`.is-waiting`), 두 번 눌러도 한 번만(`GATHER_GAP_MS` — 시간으로 막음). 기준은 `READING_GROWTH.md`의 '모두 이동'). **출석 기록은 앉아 있던 학생의 화면이 스스로 남깁니다** — 선생님의 출석시작(`callClassroomRoll`)이 반 문서에 출석 열기 두 칸과 '확인한 때'(`classroomCallAt`)를 **한 번의 쓰기로** 적고, 학생 화면이 그 값이 바뀌는 것을 본 순간 앉아 있으면 '출석하기' 단추와 같은 기록(`markStudyAttendance`)을 남깁니다(`classroomRollCall` — 화면을 열고 처음 본 값은 기준일 뿐). **출석 · 자리표의 화면과 규칙은 건드리지 않습니다**(교실은 그 자료를 읽고 같은 기록을 남기기만 함 — 선생님이 대신 쓰는 길 · 새 출석 컬렉션으로 바꾸지 마세요. 하나만 예외 — ⑦의 '출석하기' 단추를 그날 그리지 않는 것, 선생님 결정). 세 배경 그림(`plaza.webp` · `plaza-door.webp` · `classroom.webp`)은 **같은 크기**(1672×941)여야 합니다. **책상 · 의자 · 러그 · 포털은 배경에 그려져 있지 않습니다**(선생님이 주신 분리 그림 — `rug.webp` · `desk-chair.webp` · 의자만 남긴 `chair-front.webp` · `portal.webp`) — 화면이 자리 좌표대로 따로 그리고(`PlazaClassroom.jsx`의 `PlazaFurniture` · 포털은 무대), 겹치는 차례는 바닥 → 러그 → 책상·의자 → 캐릭터 → 앉은 캐릭터의 의자입니다. 배경에 다시 그려 넣지 마세요. **그림 · 배치를 바꾸면 러그의 가운데(`DESK_X` · `RUG_Y`) · 책상 줄의 못 가는 띠 · 칠판 · 포털 · 바닥의 좌표를 함께 다시 재세요**(책상 30개의 차례 = 자리표의 30자리). **광장 · 교실 · 아지트 · 펫 그림은 도트 그림(1번 스타일 · 2026년 11월)입니다** — 묶음의 PNG 원본을 `scripts/import-pixel-art.mjs`(배경 · 소품 — 같은 이름 · 같은 크기가 아니면 멈춤 · 뒤에 적은 덧씌울 묶음(넓은 러그 · 숫자 없는 벽시계)이 앞의 것을 덮음) · `scripts/prepare-pet-art.mjs`(펫)로 굽고, 그림에 맞춰 교실 줄을 30px 내렸으며 러그 · 의자 · 포털의 숫자를 다시 쟀습니다 — **`tests/unit/plazaArtFit.test.mjs`가 그 숫자를 그림과 직접 견줍니다.** **알만은 자리마다 다릅니다**(선생님 결정) — 책 광장 · 아지트는 도트 알(`egg-pixel.webp` — `PetFigure`의 `pixelEgg`), 카드 · 리더보드 · 독서 맵 · 축하 폭죽은 예전 알(`egg.webp`)입니다. 카드 쪽에 도트 알을 다시 넣지 마세요(시험이 두 알이 다른 그림인지 봄). 교실 칠판 위 벽시계는 도트 배경에 빈 동그라미라, 선생님이 주신 숫자 없는 벽시계의 시계판(점 12개 · 10시 10분 바늘 — 움직이지 않음)을 따로 얹습니다(`classroom-clock.webp` · `CLASSROOM_CLOCK` · 만들기 `scripts/prepare-classroom-clock.mjs` — 배경에 그려 넣지 마세요: 도트 묶음을 다시 넣으면 지워짐). **포털의 도는 빛 · 누르는 범위는 새 도트 포털의 크기입니다**(선생님 요청 — 광장 · 교실의 포털과 아지트의 '교실로' 포털 모두. 예전 크기로 되돌리면 도는 빛이 금테를 덮고 포털 옆 바닥을 눌러도 포털로 걸어감 · `READING_GROWTH.md`의 '교실'). 앉은 주인을 기다리는 펫은 **펫이 있는 쪽 러그 귀**에 섭니다(`classroomSeatSide` — 곧게만 걸어 책상 줄을 못 건넘). **칠판의 고르는 단추 상자는 선생님 옆(칠판 위)**에 뜹니다 — 머리 위에는 자리가 모자라 상자가 화면 밖으로 잘렸습니다(되돌리지 마세요 · 좁은 무대에서는 발 아래). 포털의 이름표는 방을 막 건너와 그 위에 서 있는 동안 걷습니다(얼굴을 가림). 함께 보기(Realtime Database)의 자리에는 `z`(교실에 있음) · `s`(앉은 책상 번호)가 실리고 무대는 같은 방의 친구만 세우며, 앉았다는 친구는 그 책상이 자리표에서 그 친구의 것일 때만 앉혀 그립니다 — **`database.rules.json`을 다시 게시한 뒤에 교실을 켜야** 교실의 친구가 서로 보입니다(앉기 · 출석은 Firestore만 써서 그 전에도 됨). 앉아 있는 학생은 가만히 있어도 한 시간까지 연결을 놓지 않습니다(`PLAZA_LIVE_SEATED_IDLE_MS`).
 
 **독서 맵**은 관리자 설정에서 **대륙**(`continent`, 기존 맵)과 **모험**(`cloud-islands`, 기본값) 중 고릅니다. `lib/readingMapCatalog.js`가 이름·허용값·이미지·기본값의 기준이고 `classes.readingMapTheme`에 저장합니다. `setTeacherReadingMapTheme`가 운영 중인 모든 반에 함께 적용하며 새 반도 따릅니다. 두 맵은 각자 다른 길과 레벨 거점을 `lib/readingWorldMap.js`에서 사용합니다. 그림만 바꾸고 기존 좌표를 재사용하지 마세요. 경험치·레벨·펫 성장은 바뀌지 않습니다.
 

diff --git a/READING_GROWTH.md b/READING_GROWTH.md
@@ -141,15 +141,16 @@
   - 책나눔 머리말의 **'나의 펫' 카드**(대표 뱃지 옆 · 900px 아래에서는 머리말 아래 줄) — 누르면 자세히 보기(큰 그림 · 소개 · 열 단계 · 다음 단계까지). 학생 본인 화면에만(교사의 학생 책나눔 보기에는 없음).
   - **리더보드** — 랭킹 줄의 캐릭터 발치 · 내 여정 정보 · 학생 창('함께하는 펫') · 독서 맵(길 위의 캐릭터 옆 · 오른쪽 성장 정보 · 함께 걷는 친구들). 알은 종 없이 '신비한 알'로만 보입니다.
   - 상단바 **'내 프로필'**의 '내 펫' 줄(열 때 한 번 서버에 물음).
-  - **책 광장** — 캐릭터 뒤를 따라 걷습니다(걷는 그림 · **단계가 오를수록 크게** · 알은 공통 알 — 아래 '책 광장'의 '캐릭터와 펫은 걷는 그림'). 여기만 그림이 다릅니다(도트 — 다 자란 모습 한 가지).
+  - **책 광장** — 캐릭터 뒤를 따라 걷습니다(걷는 그림 · **단계가 오를수록 크게** · 알은 도트 알 — 아래 '그림' · '책 광장'의 '캐릭터와 펫은 걷는 그림'). 여기만 그림이 다릅니다(도트 — 다 자란 모습 한 가지).
   - 상단바 '독서 TOP 3'에는 없습니다.
 - **자료와 권한**
   - 비밀 문서 `users/{uid}/reading/pet` `{ species, baseXp, classId, assignedAt }` — 서버만 읽고 씁니다(규칙 `reading/{document}`가 막음 — **학생 본인도 못 읽음**). 탈퇴(`withdrawStudent`)가 함께 지웁니다.
   - 프로필 `users/{uid}.readingPet` `{ species(깨어나기 전 null), baseXp, assignedAt(ms), hatchedAt(ms | null) }` — 급우도 읽는 문서라 **알 단계의 종은 여기에 적지 않습니다**. 서버만 씁니다 — 규칙이 학생의 가입(만들기)에 이 칸을 끼워 넣지 못하게 막고(마음에 드는 종 · 단계를 고르는 길), 고치기는 원래 칸 목록에 없습니다(학생 · 교사 모두). 시험 `tests/rules/readingPet.test.mjs`.
   - API `/api/reading/pet` — `GET ?classId=`(내 펫 — '내 프로필') · `POST { classId, action: "adopt" | "hatch" }`. 학생 본인만(`reading/pet-students-only`), 펫이 켜진 반에서만(`reading/pet-disabled`). 무엇을 쓸지는 `planPetAction` 한 곳이 정하고(알이 이미 있으면 그대로 — 두 번 눌러도 · 두 기기에서도 하나), 펫 경험치의 바탕은 **이 반 집계의 `totalXp`**(리더보드와 같은 값 — 집계가 옛것이면 먼저 다시 셈). 읽기는 접근 확인 3 + 반 집계 1(+ 쓸 때 프로필 · 비밀 문서 2).
   - 리더보드 줄 — `getReadingRankings`가 줄마다 `pet: { species | null, stage, xp, ready }`(`rankingPet`)를 싣습니다. 프로필 · 집계는 이미 읽어 오므로 **읽기가 늘지 않습니다**.
-- **그림** — `public/reading-pets/{열쇠}-{02~10}.webp`와 모두가 같이 쓰는 비밀 알 `egg.webp`(알 단계는 종과 상관없이 이 한 장 — 1단계는 종마다 그리지 않음). 선생님이 주신 그림으로 **알과 열 종의 2~10단계가 모두 들어갔습니다**(2026년 11월 — 91장, 크기마다 한 장씩 182개). 같은 달 **도트 그림**(광장 · 교실 · 아지트와 같은 그림체 · 640px 원본 — 묶음 `bookbom-pet-growth-pixel`)으로 모두 바꿨습니다(182개 · 2.0MB — 이름 · 크기가 같아 코드는 그대로). 자리표시(옅은 동그라미 + 동물 그림 문자 — 단계가 오를수록 커짐 · 레서판다는 이모지가 없어 단풍잎)는 `PET_ART_READY`에 열쇠가 없는 종을 위해 남겨 두었습니다 — 새 종을 더하거나 그림을 바꾸는 동안 없는 파일을 학생마다 요청하지 않게.
-  - **넣는 법** — `node --import ./tests/unit/register.mjs scripts/prepare-pet-art.mjs <열쇠> <2단계 그림> … <10단계 그림>`(아홉 장, 단계 차례대로 · 알은 `egg <그림>` · 앞의 `--import`는 셈 파일들이 확장자 없이 서로를 불러서 붙이는 시험의 불러오기 도우미) → `lib/readingPet.js`의 `PET_ART_READY`에 열쇠를 더함. 시험(`tests/unit/readingPet.test.mjs` '그림 파일')이 적힌 종의 파일이 두 크기로 다 있는지 봅니다.
+- **그림** — `public/reading-pets/{열쇠}-{02~10}.webp`와 모두가 같이 쓰는 비밀 알 `egg.webp`(알 단계는 종과 상관없이 이 한 장 — 1단계는 종마다 그리지 않음). 선생님이 주신 그림으로 **알과 열 종의 2~10단계가 모두 들어갔습니다**(2026년 11월 — 91장, 크기마다 한 장씩 182개). 같은 달 **도트 그림**(광장 · 교실 · 아지트와 같은 그림체 · 640px 원본 — 묶음 `bookbom-pet-growth-pixel`)으로 모두 바꿨습니다(182개 · 2.0MB — 이름 · 크기가 같아 코드는 그대로).
+  - **알만은 자리마다 다릅니다**(선생님 결정 — 도트 묶음의 알을 받으며 고르심): 책나눔의 '나의 펫' 카드 · 자세히 보기 · 리더보드 · 독서 맵 · 축하 폭죽 · 교사 명단은 **예전 알**(`egg.webp`), **책 광장 · 아지트**(배경과 걷는 그림이 도트인 곳 — 광장의 따라 걷는 알 · 아지트 방석 위의 알)는 **도트 알**(`egg-pixel.webp` · `egg-pixel-160.webp`). 고르는 곳은 `PetFigure`의 `pixelEgg` → `petImageSrc(…, { pixelEgg })` 하나이고(깨어난 펫은 상관없음), 광장(`PlazaActor`) · 아지트(`ReadingHideout`의 `RestingPet`)만 켭니다. 한때 도트 알로 모두 바꿨다가 이렇게 나눴습니다 — **카드 쪽 `egg.webp`에 도트 알을 다시 넣지 마세요**(시험 '그림 파일'이 두 알이 다른 그림인지 봄). 자리표시(옅은 동그라미 + 동물 그림 문자 — 단계가 오를수록 커짐 · 레서판다는 이모지가 없어 단풍잎)는 `PET_ART_READY`에 열쇠가 없는 종을 위해 남겨 두었습니다 — 새 종을 더하거나 그림을 바꾸는 동안 없는 파일을 학생마다 요청하지 않게.
+  - **넣는 법** — `node --import ./tests/unit/register.mjs scripts/prepare-pet-art.mjs <열쇠> <2단계 그림> … <10단계 그림>`(아홉 장, 단계 차례대로 · 알은 `egg <그림>` · 도트 알은 `egg-pixel <그림>` · 앞의 `--import`는 셈 파일들이 확장자 없이 서로를 불러서 붙이는 시험의 불러오기 도우미) → `lib/readingPet.js`의 `PET_ART_READY`에 열쇠를 더함. 시험(`tests/unit/readingPet.test.mjs` '그림 파일')이 적힌 종의 파일이 두 크기로 다 있는지 봅니다.
   - 스크립트가 하는 일: 원본(투명 바탕 정사각 — 처음 그림은 1024px로 안쪽 투명도가 252~253이라 아주 조금 비쳤고, 도트 그림은 640px)을 **안쪽은 완전히 불투명하게(250 이상 → 255) · 옅은 점은 완전히 투명하게(3 이하 → 0)** 다듬고(옅은 점은 눈에 안 보여도 독서 맵 · 순위표의 그림자에 비침), **640px**(`{이름}.webp` — 자세히 보기 · 축하 폭죽)과 **160px**(`{이름}-160.webp` — 카드 · 순위표 · 독서 맵) WebP(품질 85)로 줄입니다.
   - **두 크기는 브라우저가 고릅니다**(`PetFigure`의 `srcSet` · `sizes` — `petImageSrcSet`). 순위표 · 독서 맵은 반 학생 수만큼 펫이 뜨는데, 작은 그림은 한 장 5~10KB입니다(도트 그림 기준 — 큰 그림은 13~22KB). 큰 그림을 이미 받아 둔 기기는 그것을 작게 다시 씁니다(새로 받지 않음).
   - **ZIP으로 받아도 됩니다**(고슴도치부터 그랬습니다 — 종마다 `hedgehog-02.png` … `-10.png` 아홉 장). 바깥에서 온 자료라 **새 빈 폴더에 풀고**, 풀기 전에 목록(`unzip -l`)으로 그림 파일만 들었는지 보고, 차례는 파일 이름의 단계 번호로 정합니다.
@@ -455,11 +456,12 @@ API 키는 나중에 등록해도 됩니다. 등록 전에는 검색 준비 중 
   8. **선생님의 맵 위 왼쪽 팻말은 둘 — 광장에서는 `모두 교실로 · 나가기`, 교실에서는 `모두 광장으로 · 나가기`**이고, 앞의 단추가 **반의 모든 화면에 알림과 10초 카운트다운을 띄운 뒤 학생 모두(다른 화면에 있던 학생도)와 선생님을 그 방으로 옮깁니다**(선생님 요청 — 아래 '모두 이동'. 학생과 교실을 끈 반의 선생님은 지금처럼 방 이름 팻말).
 - **방은 그림 한 장씩이고 셋 다 같은 크기**(1672×941)입니다 — 그래서 화면 확대 · 시점의 셈(`plazaView` · `plazaCamera`)을 방마다 따로 두지 않습니다.
   - **배경 셋** — `public/reading-plaza/plaza.webp`(문 없는 광장 — 교실을 끈 반 · 예전 그대로) · `plaza-door.webp`(왼쪽 아래에 교실로 가는 문이 그려진 광장 — 교실을 켠 반) · `classroom.webp`(교실 — 칠판 · 교탁 · 책장 · 오른쪽 아래의 문. **학생 책상 · 의자 · 러그 · 포털은 그려져 있지 않은 빈 바닥**).
-  - **따로 놓는 그림 다섯**(선생님이 주신 분리 자료 — 배경 · 책상 · 의자 · 러그 · 포털이 따로) — `rug.webp`(동그란 러그) · `desk-chair.webp`(책상과 의자 한 세트) · `chair-front.webp`(그 그림에서 **의자만** 남긴 것 — 앉은 캐릭터 위에 한 번 더 그림) · `portal.webp`(포털 — 두 방이 같은 그림) · `portal-swirl.webp`(포털 안에서 도는 빛). 화면이 자리 좌표대로 러그 서른 장 · 책상 서른 벌(`PlazaClassroom.jsx`의 `PlazaFurniture` — 좌표가 안 바뀌어 한 번만 그림)과 포털(무대)을 그립니다. 겹치는 차례는 **바닥 → 러그 → 책상·의자 → 캐릭터 → (앉은 캐릭터의) 의자**입니다. **2026년 11월에 도트 그림(1번 스타일)으로 바꿨습니다** — 묶음 `bookbom-pixel-style1`의 PNG 원본을 `scripts/import-pixel-art.mjs`가 **같은 이름 · 같은 크기**의 WebP로 굽습니다(품질 88 · 크기가 지금 그림과 다르면 아무것도 쓰지 않고 멈춤 · 의자만의 그림도 묶음에 따로 있음 · 묶음의 앱용 WebP는 무손실이라 광장이 1.5MB였고 같은 그림이 256KB). 러그는 **넓은 러그 수정본**입니다 — 처음 받은 도트 러그는 폭이 좁아(보이는 반지름 63) 책상 옆에 서는 자리 · 펫 자리가 러그 밖이었고, 작가가 예전 러그의 폭으로 다시 그렸습니다. (그 앞의 그림을 만들던 `scripts/prepare-classroom-art.py`는 기록으로만 남겼습니다.)
+  - **따로 놓는 그림 다섯**(선생님이 주신 분리 자료 — 배경 · 책상 · 의자 · 러그 · 포털이 따로) — `rug.webp`(동그란 러그) · `desk-chair.webp`(책상과 의자 한 세트) · `chair-front.webp`(그 그림에서 **의자만** 남긴 것 — 앉은 캐릭터 위에 한 번 더 그림) · `portal.webp`(포털 — 두 방이 같은 그림) · `portal-swirl.webp`(포털 안에서 도는 빛). 화면이 자리 좌표대로 러그 서른 장 · 책상 서른 벌(`PlazaClassroom.jsx`의 `PlazaFurniture` — 좌표가 안 바뀌어 한 번만 그림)과 포털(무대)을 그립니다. 겹치는 차례는 **바닥 → 러그 → 책상·의자 → 캐릭터 → (앉은 캐릭터의) 의자**입니다. **2026년 11월에 도트 그림(1번 스타일)으로 바꿨습니다** — 묶음 `bookbom-pixel-style1`의 PNG 원본을 `scripts/import-pixel-art.mjs`가 **같은 이름 · 같은 크기**의 WebP로 굽습니다(품질 88 · 크기가 지금 그림과 다르면 아무것도 쓰지 않고 멈춤 · 의자만의 그림도 묶음에 따로 있음 · 묶음의 앱용 WebP는 무손실이라 광장이 1.5MB였고 같은 그림이 256KB · 몇 장만 다시 그려 온 묶음은 뒤에 이어 적어 덧씌움: `node scripts/import-pixel-art.mjs <도트 묶음> <넓은 러그 묶음> <숫자 없는 벽시계 묶음>`). 러그는 **넓은 러그 수정본**입니다 — 처음 받은 도트 러그는 폭이 좁아(보이는 반지름 63) 책상 옆에 서는 자리 · 펫 자리가 러그 밖이었고, 작가가 예전 러그의 폭으로 다시 그렸습니다. (그 앞의 그림을 만들던 `scripts/prepare-classroom-art.py`는 기록으로만 남겼습니다.)
+  - **벽시계** — 칠판 위 벽시계는 도트 배경에 **빈 크림색 동그라미**로 그려져 있어(예전 그림에는 바늘이 있었음), 선생님이 주신 **숫자 없는 벽시계**(`bookbom-numberless-wall-clocks` — 아지트 꾸미기 시계 4종, 시계판은 넷 다 같음)의 시계판에서 **점 12개 · 10시 10분의 두 바늘 · 금빛 축만** 떠내 그 위에 얹습니다(`classroom-clock.webp` — 시계판 지름의 네 배 · 10KB, 크림 바탕은 투명이라 배경의 크림이 비침). 자리는 `CLASSROOM_CLOCK`(가운데 (835, 44) · 지름 59 — 원본 px), 그리기는 `PlazaFurniture`(러그와 같은 층 · 칠판 위 벽이라 캐릭터와 겹치지 않음), 만들기는 `node scripts/prepare-classroom-clock.mjs <숫자 없는 벽시계 PNG(forest.png)>`(가장 큰 크림 덩어리를 시계판으로 찾고, 크림보다 **어두워지는 쪽만** 알파로 — 밝아지는 쪽까지 세면 도트 그림의 미세한 색 차이가 시계판 전체에 옅은 얼룩으로 깔렸음 · 실측 66 → 10KB). **바늘은 움직이지 않습니다**(진짜 시각이 아님 — 선생님이 '숫자 없는 시계'를 주심). 배경에 그려 넣지 않은 까닭은 도트 묶음을 다시 넣어도(`import-pixel-art.mjs`) 시계가 지워지지 않게입니다. 시험(`tests/unit/plazaArtFit.test.mjs` '교실 벽시계')이 배경의 빈 시계판이 그 자리 · 지름인지, 얹는 그림의 먹이 시계판 안에만 있고 따로 떨어진 덩어리가 13개(점 12 + 바늘과 축)인지 봅니다.
   - 방 정의는 `plazaRoomOf(방 id, 교실을 켰나)` → `PLAZA_ROOM` · `PLAZA_DOOR_ROOM` · `CLASSROOM_ROOM`. 방 하나가 `{ id, art, floor(바닥 테두리), ellipses · rects(못 가는 곳), spawn · spawnArea(처음 서는 자리), spots(여는 곳), portals }`를 들고, 걷는 길의 셈(`plazaWalkable` · `plazaNearest` · `plazaPath` · `plazaStep` · `plazaSpotNear` …)은 **모두 마지막 인자로 방**을 받습니다(안 주면 문 없는 광장 — 예전 그대로).
   - 문 있는 광장은 왼쪽 아래 모서리의 바닥이 다르고(문이 선 자리), 둘째 가판대 앞에 서는 자리가 문 위쪽으로 옮겨졌습니다. 방에 따라 서는 자리가 달라 무대는 `room.spots`를 씁니다.
   - 교실의 걷는 길 — **책상 줄(세로 띠 여섯 — 책상과 의자를 통째로)은 못 가는 곳**이고(앞뒤 줄 사이는 13px이라 다니지 않음), 띠 사이의 복도(80~91px) · 칠판 앞 · 교실 뒤쪽을 걷습니다. 러그는 책상보다 넓어 **양옆 복도로 30px 남짓씩** 나와 있고(러그의 '귀' — 맨 뒷줄은 의자 뒤로도 조금), 거기에 서면 러그 위입니다. 띠의 반폭(`DESK_HALF` 54)은 책상의 보이는 반폭(41)보다 넓습니다 — 옆에 선 캐릭터가 책상에 깊이 겹치지 않게. 처음 서는 자리는 교실 뒤쪽 가운데(836, 806)이고 함께 보는 교실에서는 그 둘레에 흩어 섭니다(`plazaSpawnFor(uid, 방)`).
-  - **그림 · 배치를 바꾸면 좌표를 다시 재세요** — 러그의 가운데(`DESK_X` 여섯 · `RUG_Y` 다섯 — 선생님이 주신 배치 자료 `layout.json`의 값) · 러그와 책상 그림을 놓는 상자(`CLASSROOM_RUG` · `CLASSROOM_DESK`) · 책상 줄의 못 가는 띠(`DESK_HALF` · `DESK_TOP` · `DESK_BOTTOM`) · 칠판(`CLASSROOM_BOARD`) · 포털(`PLAZA_PORTAL` · `CLASSROOM_PORTAL` · 그림 상자 `PORTAL_ART`) · 바닥 테두리. 좌표를 그대로 두면 캐릭터가 책상 위를 걷고 물음표가 엉뚱한 데 뜹니다. 도트 그림으로 바꿀 때는 묶음에 온 좌표 고침(`sources/maps/readingPlazaMap.style1.patch` — 위쪽 가구가 30px 내려옴)대로 **교실 줄을 30px 아래로**(`RUG_Y` 369 · 460 · 552 · 644 · 734 · `DESK_TOP` 304 · `DESK_BOTTOM` 757) · 칠판 앞(`standY` 292) · 교실 바닥 · 광장 바닥의 위 끝(196 → 216) · 분수 · 책꽂이 · 문의 범위를 옮기고, 러그의 세로 반지름(37 → 35) · 의자의 자리(등받이 윗선 35 → 32 · `CLASSROOM_SIT_HIDE` 26 → 30 · 물음표 34 → 32) · 포털(아래)을 그림에 맞춰 다시 쟀습니다. **`tests/unit/plazaArtFit.test.mjs`가 러그 · 포털 · 의자 · 아지트 포털의 숫자를 그림과 직접 견줍니다** — 그림을 바꾸고 이 시험이 어긋나면 숫자를 다시 재세요.
+  - **그림 · 배치를 바꾸면 좌표를 다시 재세요** — 러그의 가운데(`DESK_X` 여섯 · `RUG_Y` 다섯 — 선생님이 주신 배치 자료 `layout.json`의 값) · 러그와 책상 그림을 놓는 상자(`CLASSROOM_RUG` · `CLASSROOM_DESK`) · 책상 줄의 못 가는 띠(`DESK_HALF` · `DESK_TOP` · `DESK_BOTTOM`) · 칠판(`CLASSROOM_BOARD`) · 포털(`PLAZA_PORTAL` · `CLASSROOM_PORTAL` · 그림 상자 `PORTAL_ART`) · 바닥 테두리. 좌표를 그대로 두면 캐릭터가 책상 위를 걷고 물음표가 엉뚱한 데 뜹니다. 도트 그림으로 바꿀 때는 묶음에 온 좌표 고침(`sources/maps/readingPlazaMap.style1.patch` — 위쪽 가구가 30px 내려옴)대로 **교실 줄을 30px 아래로**(`RUG_Y` 369 · 460 · 552 · 644 · 734 · `DESK_TOP` 304 · `DESK_BOTTOM` 757) · 칠판 앞(`standY` 292) · 교실 바닥 · 광장 바닥의 위 끝(196 → 216) · 분수 · 책꽂이 · 문의 범위를 옮기고, 러그의 세로 반지름(37 → 35) · 의자의 자리(등받이 윗선 35 → 32 · `CLASSROOM_SIT_HIDE` 26 → 30 · 물음표 34 → 32) · 포털(아래)을 그림에 맞춰 다시 쟀습니다. **`tests/unit/plazaArtFit.test.mjs`가 러그 · 포털 · 의자 · 아지트 포털 · 벽시계의 숫자를 그림과 직접 견줍니다** — 그림을 바꾸고 이 시험이 어긋나면 숫자를 다시 재세요.
 - **포털** — 배경에 그려져 있지 않고 **그림 한 장을 바닥에 놓습니다**(`portal.webp` — 못의 가운데가 `PLAZA_PORTAL` (382, 823) · `CLASSROOM_PORTAL` (1475, 855), 그림 상자 230×100). 발이 포털 안쪽 타원(가로 37 · 세로 19px 반지름 — 소용돌이의 64%)에 들어서면 옮겨 가 **저쪽 포털 한가운데**에 섭니다. 옮겨 온 직후에는 포털에서 22px 벗어나야 다시 들어설 수 있습니다(`PORTAL_REARM` — 안 그러면 곧바로 되돌아감). 포털 · 문 그림 · 이름표('교실로' · '책 광장으로')를 누르면 그리로 걸어갑니다. 옮기는 순간 화면이 잠깐 밝아지고(`.plaza-warp`), 포털 위에 도는 빛 한 장(`portal-swirl.webp`)을 얹어 돌립니다(움직임을 줄여 달라고 한 기기에서는 돌지 않음).
   - **도는 빛 · 누르는 범위는 새 도트 포털의 크기**입니다(선생님 요청 — 2026년 11월). 도트 포털은 예전 포털보다 좁아(보이는 폭 227 → 156px) 예전 크기 그대로면 도는 빛이 금테를 덮고, 포털 옆 바닥을 눌러도 포털로 걸어갔습니다. 도는 빛은 안쪽 청록 소용돌이의 크기(가로 58 · 세로 30 — 빛 그림은 그 안의 72%), 누르면 걸어가는 범위(`ring`)는 금테 · 손잡이까지(가로 77 · 세로 47), 들어서는 타원도 소용돌이에 대한 비율 그대로 줄였습니다(58 × 20 → 37 × 19). 도트 포털은 금테가 고르게 둘러 그림의 가운데가 곧 못의 가운데입니다(`drop` 0 — 예전 그림은 3). 아지트의 '교실로' 포털도 같습니다 — 그림 상자(152 × 76)와 누르는 단추(보이는 포털 104 × 66 · 타원)를 따로 두고, 도는 빛은 상자 폭의 절반, 들어서는 타원은 가로 50 · 세로 38(`lib/readingHideoutMap.js`의 `HIDEOUT_RETURN_PORTAL`). **예전 크기로 되돌리지 마세요.** 실측(데모 1440px): 광장 포털 오른쪽 70px을 누르면 교실로 · 100px은 그 바닥으로 걸어감 · 아지트 포털 가운데에서 오른쪽 50px까지 단추 · 62px부터 바닥.
   - **이름표는 포털 그림 바로 위**에 답니다. 그 자리는 포털 위에 선 캐릭터의 얼굴 높이라, **방을 막 건너와 서 있는 동안에는 그 이름표를 걷고**(무대의 `onGate` — 포털에서 벗어나면 다시 보임), 층도 포털에 선 캐릭터보다 뒤에 둡니다(친구가 서 있어도 얼굴을 덮지 않음). 캐릭터의 머리 위까지 올려 띄우는 길은 쓰지 않습니다 — 캐릭터의 키(88px)와 이름표를 넘기려면 포털에서 80px 넘게 떨어져 무엇의 이름표인지 알 수 없게 됩니다.

diff --git a/public/reading-plaza/README.md b/public/reading-plaza/README.md
@@ -1,6 +1,6 @@
 # 책봄 책 광장 이미지
 
-> **2026년 11월 — 도트 그림(1번 스타일)으로 바꿨습니다.** 배경 셋 · 러그 · 책상과 의자 · 의자 앞부분 · 포털 · 도는 빛을 선생님이 주신 묶음(`bookbom-pixel-style1` + 넓은 러그 수정본)의 PNG 원본에서 `node scripts/import-pixel-art.mjs <묶음 폴더> [<넓은 러그 폴더>]`로 **같은 이름 · 같은 크기**의 WebP(품질 88)로 구웠습니다 — 크기가 지금 그림과 다르면 아무것도 쓰지 않고 멈춥니다. 광장 약 256KiB · 교실 약 129KiB(묶음의 앱용 WebP는 무손실이라 1.5MB · 1.1MB였음). 그림에 맞춰 바꾼 좌표 · 크기(교실 줄 30px 아래 · 칠판 앞 · 바닥 · 분수 · 책꽂이 · 문 · 러그 세로 · 의자 · 포털의 도는 빛과 누르는 범위)는 `READING_GROWTH.md`의 '교실' 절에 있고, **`tests/unit/plazaArtFit.test.mjs`가 러그 · 포털 · 의자 숫자를 그림과 직접 견줍니다.** 아래 설명의 KiB · '선생님이 주신 분리 자료' · `prepare-classroom-art.py`는 그 앞 그림의 기록입니다.
+> **2026년 11월 — 도트 그림(1번 스타일)으로 바꿨습니다.** 배경 셋 · 러그 · 책상과 의자 · 의자 앞부분 · 포털 · 도는 빛을 선생님이 주신 묶음(`bookbom-pixel-style1` + 넓은 러그 수정본)의 PNG 원본에서 `node scripts/import-pixel-art.mjs <묶음 폴더> <넓은 러그 폴더> <숫자 없는 벽시계 폴더>`로 **같은 이름 · 같은 크기**의 WebP(품질 88)로 구웠습니다 — 크기가 지금 그림과 다르면 아무것도 쓰지 않고 멈춥니다. 교실 칠판 위 벽시계는 배경에 빈 동그라미라, 숫자 없는 벽시계의 시계판(점 12개 · 10시 10분 바늘)을 `classroom-clock.webp`로 떠내 따로 얹습니다(`scripts/prepare-classroom-clock.mjs` · 자리 `CLASSROOM_CLOCK`). 광장 약 256KiB · 교실 약 129KiB(묶음의 앱용 WebP는 무손실이라 1.5MB · 1.1MB였음). 그림에 맞춰 바꾼 좌표 · 크기(교실 줄 30px 아래 · 칠판 앞 · 바닥 · 분수 · 책꽂이 · 문 · 러그 세로 · 의자 · 포털의 도는 빛과 누르는 범위)는 `READING_GROWTH.md`의 '교실' 절에 있고, **`tests/unit/plazaArtFit.test.mjs`가 러그 · 포털 · 의자 숫자를 그림과 직접 견줍니다.** 아래 설명의 KiB · '선생님이 주신 분리 자료' · `prepare-classroom-art.py`는 그 앞 그림의 기록입니다.
 
 - `plaza.webp`: 책 광장의 배경(1672 × 941, 약 266KiB). 선생님이 주신 원본 PNG를 같은 크기의 WebP(quality 84)로 바꿨습니다. 캐릭터는 그림에 넣지 않았습니다 — 학생 캐릭터가 그 위를 걸어 다닙니다.
 - 그림 속 물건의 자리가 곧 걷는 길입니다: 책꽂이(위 가운데) · 가판대 셋(왼쪽 둘 · 오른쪽 하나) · 분수(가운데) · 그네 · 정자. 걸을 수 있는 바닥의 테두리와 여는 곳의 좌표는 `lib/readingPlazaMap.js`의 방 정의(`PLAZA_ROOM` — 바닥 `floor` · 분수 `ellipses` · 여는 곳 `spots`)에 **이 그림의 원본 px**로 적혀 있습니다.
@@ -39,7 +39,7 @@
 
   **왼쪽은 오른쪽 줄을 좌우로 뒤집어** 씁니다. 칸 안에서 **발이 닿는 점은 (48, 88)**, 몸의 키는 72px입니다(360장 모두 발끝이 같은 높이 — 그래서 그림이 바뀌어도 자리가 튀지 않습니다). 발 그림자 · 이름표는 그림에 없고 화면이 그립니다.
 - 넣을 때 한 일: 묶음의 PNG를 **무손실 WebP**로 다시 인코딩했습니다(완전히 투명한 점의 색 값만 0으로 — 보이는 점은 한 점도 다르지 않음). 40장 합쳐 1.9MB, 한 장 34~66KB. 학생은 제 캐릭터 한 장과 제 펫 한 장만 받습니다.
-- 펫 그림은 **다 자란 모습 한 가지**입니다 — 광장은 단계에 따라 **크기**로 성장을 보입니다(2단계 62% → 10단계 100%, 선생님 결정). 깨어나기 전의 알은 `public/reading-pets/egg.webp`(공통 알)를 그대로 씁니다. 펫 카드 · 리더보드의 단계별 그림(`public/reading-pets/`)과는 따로입니다.
+- 펫 그림은 **다 자란 모습 한 가지**입니다 — 광장은 단계에 따라 **크기**로 성장을 보입니다(2단계 62% → 10단계 100%, 선생님 결정). 깨어나기 전의 알은 도트 알 `public/reading-pets/egg-pixel.webp`를 씁니다(카드 · 리더보드 · 독서 맵은 예전 알 `egg.webp` — 선생님 결정). 펫 카드 · 리더보드의 단계별 그림(`public/reading-pets/`)과는 따로입니다.
 - 셈(방향 · 그림 차례 · 크기 · 펫이 따라올 자리)은 `lib/readingPlazaSprites.js`, 그리기는 `components/reading/PlazaSprite.jsx`입니다. **규격이 다른 그림으로 바꾸면 그 파일 맨 위의 값을 함께 고치세요.**
 - **캐릭터 · 펫을 새로 더하면 시트도 함께 넣으세요.** `tests/unit/readingPlaza.test.mjs`가 캐릭터 30 · 펫 10의 시트가 모두 있는지 봅니다. 시트가 없으면 그 캐릭터는 광장에서 예전 그림(`public/reading-journey/` · `public/reading-pets/`)으로 섭니다.
 - 저작권: 묶음에 함께 온 표시대로 이 저장소와 같은 CC BY-NC 4.0입니다.

diff --git a/HIDEOUT.md b/HIDEOUT.md
@@ -40,7 +40,7 @@
 
 ## 디자인 기준
 
-**도트 그림(1번 스타일 · 2026년 11월)**을 `public/reading-hideout/`에 포함했습니다 — 광장 · 교실과 같은 그림체입니다. 선생님이 주신 묶음(`bookbom-pixel-style1`)의 PNG 원본을 `scripts/import-pixel-art.mjs`가 **같은 이름 · 같은 크기**의 WebP로 굽고(품질 88 · 알파 무손실 · 소품 120장 7.6MB → 3MB) `manifest.json`의 크기 · SHA-256을 새로 씁니다. 그 앞의 그림(검토를 마친 v2)과 크기 · 자리가 같아 배치(카탈로그)는 그대로이고, 쉬는 펫이 네 테마의 방석 안에 드는지 보는 시험도 그대로 통과합니다. 외부 작업 폴더나 ZIP이 있어야 실행되는 구조가 아닙니다. `scripts/import-hideout-art.mjs`는 옛 원본(v2)에서 카탈로그를 다시 만들 때만 쓰는 제작 도구입니다 — 그림까지 예전 것으로 되돌리므로, 돌린 뒤에는 `import-pixel-art.mjs`를 다시 돌리세요.
+**도트 그림(1번 스타일 · 2026년 11월)**을 `public/reading-hideout/`에 포함했습니다 — 광장 · 교실과 같은 그림체입니다. 선생님이 주신 묶음(`bookbom-pixel-style1`)의 PNG 원본을 `scripts/import-pixel-art.mjs`가 **같은 이름 · 같은 크기**의 WebP로 굽고(품질 88 · 알파 무손실 · 소품 120장 7.6MB → 3MB) `manifest.json`의 크기 · SHA-256을 새로 씁니다. 그 앞의 그림(검토를 마친 v2)과 크기 · 자리가 같아 배치(카탈로그)는 그대로이고, 쉬는 펫이 네 테마의 방석 안에 드는지 보는 시험도 그대로 통과합니다. 꾸미기 **벽시계 4종은 숫자 없는 시계**입니다 — 처음 묶음의 시계는 굵은 눈금이 로마 숫자 Ⅰ처럼 보여, 선생님이 작은 점 12개와 10시 10분의 두 바늘로 다시 그린 수정본(`bookbom-numberless-wall-clocks` — 캔버스 크기 · 아래 가운데 자리는 그대로)을 덧씌울 묶음으로 넣었습니다(`node scripts/import-pixel-art.mjs <도트 묶음> <넓은 러그 묶음> <숫자 없는 벽시계 묶음>`). 방석 위의 알은 **도트 알**(`public/reading-pets/egg-pixel.webp` — 카드 · 리더보드 · 독서 맵은 예전 알, 선생님 결정 · `READING_GROWTH.md`의 '독서 펫'). 외부 작업 폴더나 ZIP이 있어야 실행되는 구조가 아닙니다. `scripts/import-hideout-art.mjs`는 옛 원본(v2)에서 카탈로그를 다시 만들 때만 쓰는 제작 도구입니다 — 그림까지 예전 것으로 되돌리므로, 돌린 뒤에는 `import-pixel-art.mjs`를 다시 돌리세요.
 
 **교실로 가는 포털**은 그림 상자(152 × 76)와 누르는 단추(보이는 포털 104 × 66 · 타원)를 따로 둡니다(선생님 요청 — 도트 포털이 예전보다 좁아 상자만 한 단추면 포털 옆 바닥을 눌러도 포털로 걸어갔음). 도는 빛은 상자 폭의 절반(안쪽 소용돌이 안), 들어서는 타원은 가로 50 · 세로 38(`lib/readingHideoutMap.js`의 `HIDEOUT_RETURN_PORTAL` · 시험 `tests/unit/plazaArtFit.test.mjs`).
 
